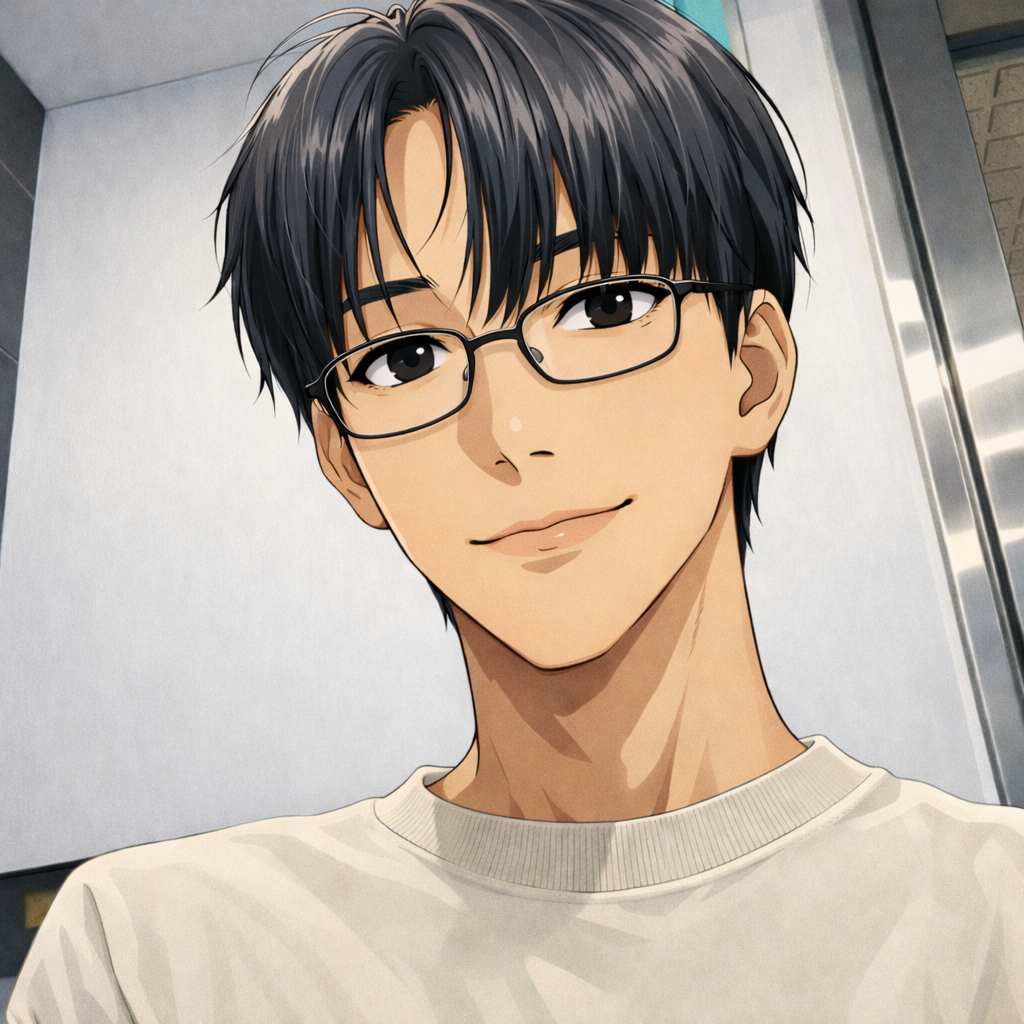
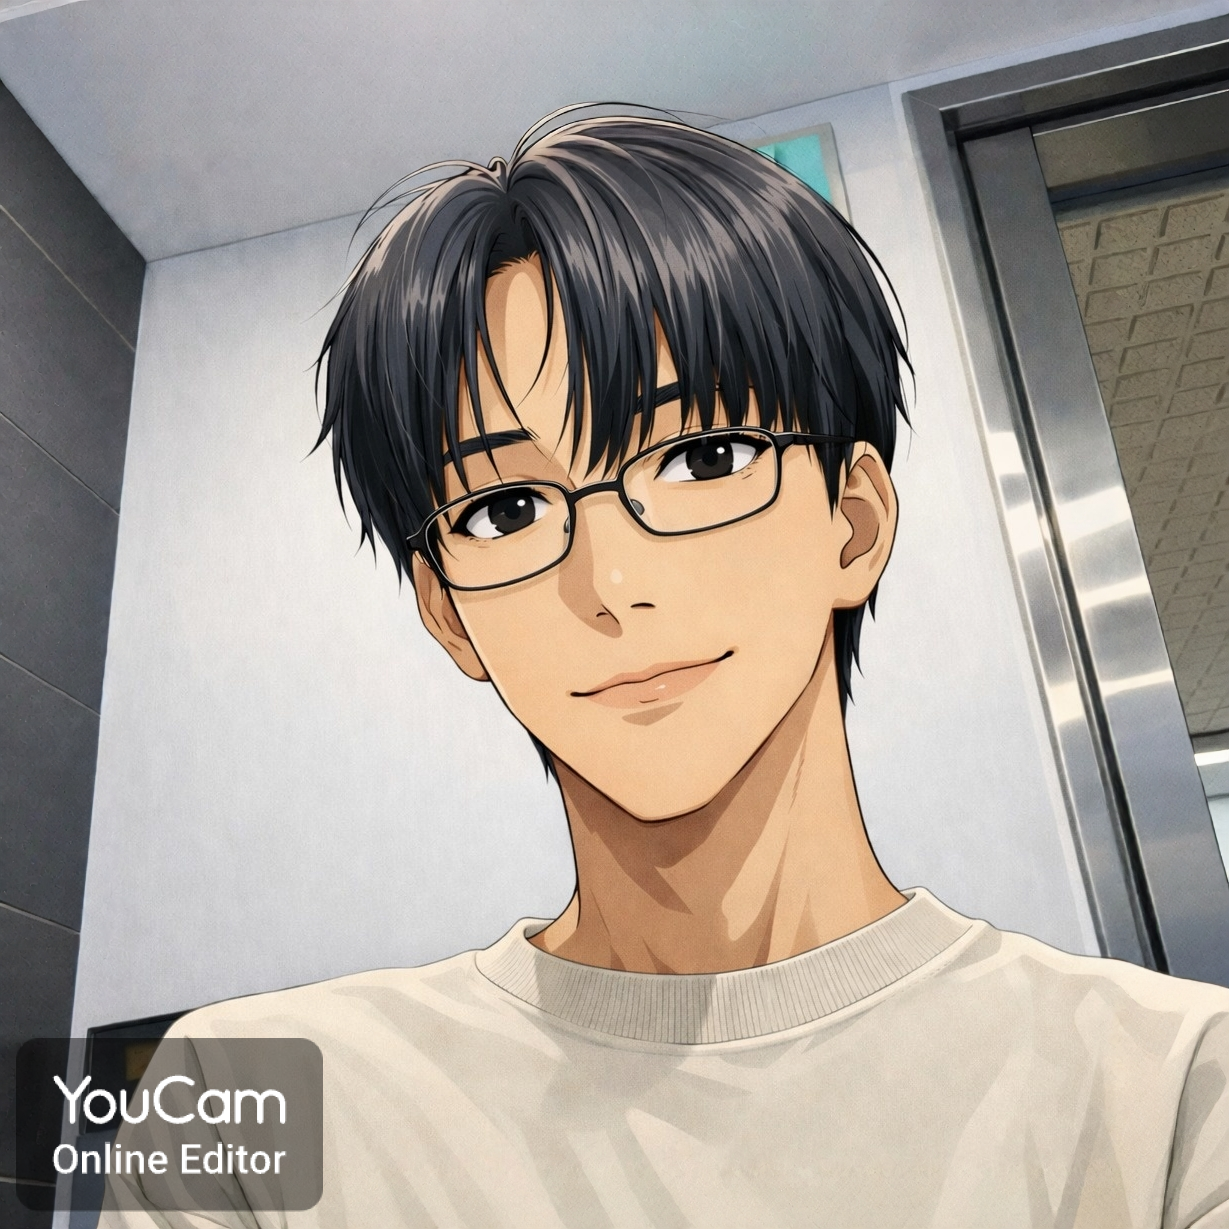
首頁與案例頁文案、排版微調並換新大頭照
- 換新版大頭照並用 scale-110 + object-[center_30%] 重新框圖
- 首頁 Bento 區標題「主打作品」→「服務內容」
- VoxPlan / Freedunk 卡片 type 文案精簡
- About / CTA 段落收斂；Email 從膠囊按鈕改為 underline 連結
  並直接顯示完整信箱
- 案例詳情頁拿掉「解法概述」h3 標題（讓段落直接接續）
- 移除美甲案例最後一條偏「敘事」的架構決策
- next-env.d.ts 路徑同步 Next 16 dev/prod 分流的型別來源

diff --git a/src/app/page.tsx b/src/app/page.tsx
@@ -28,7 +28,7 @@ const cases: CaseItem[] = [
     tagline:
       "用講的就能建立行程。「明天下午兩點在咖啡廳跟 Amy 開會」自動拆成標題、時間、地點、人員。",
     stack: "Flutter · Firebase · FastAPI · Whisper / GPT-4o-mini",
-    type: "個人 SaaS · iOS / Android 上架審核中",
+    type: "個人 SaaS · iOS / Android ",
   },
   {
     slug: "freedunk-hub",
@@ -36,7 +36,7 @@ const cases: CaseItem[] = [
     tagline:
       "為《Freedunk》玩家做的戰術分析工具——拖曳球員、Canvas 畫戰術線、一步步推演。",
     stack: "React · Canvas 2D API · 純前端單檔",
-    type: "個人作品",
+    type: "",
   },
 ];
 
@@ -72,7 +72,7 @@ export default function Home() {
             alt="Alvin"
             fill
             sizes="(min-width: 768px) 220px, 160px"
-            className="object-cover"
+            className="scale-110 object-cover object-[center_30%]"
             priority
           />
         </div>
@@ -82,7 +82,7 @@ export default function Home() {
       <section className="mt-24 md:mt-32">
         <div className="flex items-end justify-between gap-4">
           <h2 className="text-2xl font-semibold tracking-tight md:text-3xl">
-            主打作品  
+            服務內容  
           </h2>
           
         </div>
@@ -156,8 +156,7 @@ export default function Home() {
             主要做 LINE 生態系、AI 應用、全端網站這三塊；從需求釐清、寫 code 到部署上線。
             <br />
             <br />
-            如果你正在找一個能從零做到上線、過程中持續溝通的工程師，歡迎來信或加 LINE 聊聊，
-            我會直接告訴你能不能做、怎麼做。
+            如果你正在找一個能從零做到上線、過程中持續溝通的工程師，歡迎來信或加 LINE 聊聊。
           </p>
           <ul className="space-y-5 text-zinc-700 dark:text-zinc-300">
             <li>
@@ -195,10 +194,9 @@ export default function Home() {
             想評估你的 LINE 預約系統 / AI 應用 / 全端網站？
           </h2>
           <p className="mt-4 max-w-2xl text-zinc-600 dark:text-zinc-400">
-            加 LINE 或寄 Email 都可以。先聊聊你的需求，
-            我會直接告訴你「能不能做、預估時間、大概的費用區間」，討論完成後馬上開始你的專屬專案。
+            加 LINE 或寄 Email 都可以。先聊聊你的需求，評估「能不能做、預估時間、大概的費用區間」後，討論完成後馬上開始你的專屬專案。
           </p>
-          <div className="mt-8 flex flex-wrap gap-3">
+          <div className="mt-8 flex flex-col items-start gap-3">
             <a
               href="https://line.me/R/ti/p/%40989evvhq"
               target="_blank"
@@ -209,9 +207,9 @@ export default function Home() {
             </a>
             <a
               href="mailto:enghuang100@gmail.com"
-              className="inline-flex items-center justify-center rounded-full border border-zinc-300 px-6 py-3 text-sm font-medium transition hover:border-zinc-900 dark:border-zinc-700 dark:hover:border-zinc-50"
+              className="text-sm text-zinc-600 underline-offset-4 transition hover:text-zinc-900 hover:underline dark:text-zinc-400 dark:hover:text-zinc-50"
             >
-              Email
+              enghuang100@gmail.com
             </a>
           </div>
         </div>

diff --git a/src/lib/cases.ts b/src/lib/cases.ts
@@ -128,10 +128,7 @@ export const cases: Case[] = [
         title: "三層 fallback 應對網路與 CORS",
         body: "請求順序：POST text/plain → JSONP <script> 注入 → localStorage 本地模式。對「店裡客人手機網路差」的真實情境很實用。",
       },
-      {
-        title: "為「美甲店規模」量身選型，不過度設計",
-        body: "月預約量 ≤ 300 筆 → Calendar 直接 maxResults: 2500 一次拿完，不做分頁。設計決策有寫進文件，不是偷懶。",
-      },
+      
     ],
   },
   {

diff --git a/src/app/work/[slug]/page.tsx b/src/app/work/[slug]/page.tsx
@@ -172,9 +172,7 @@ export default async function WorkDetail({
           <div className="mt-8 space-y-10">
               {c.solution && (
                 <div>
-                  <h3 className="text-base font-semibold tracking-tight">
-                    解法概述
-                  </h3>
+                  
                   <p className="mt-3 leading-relaxed text-zinc-700 dark:text-zinc-300">
                     {c.solution.text}
                   </p>
